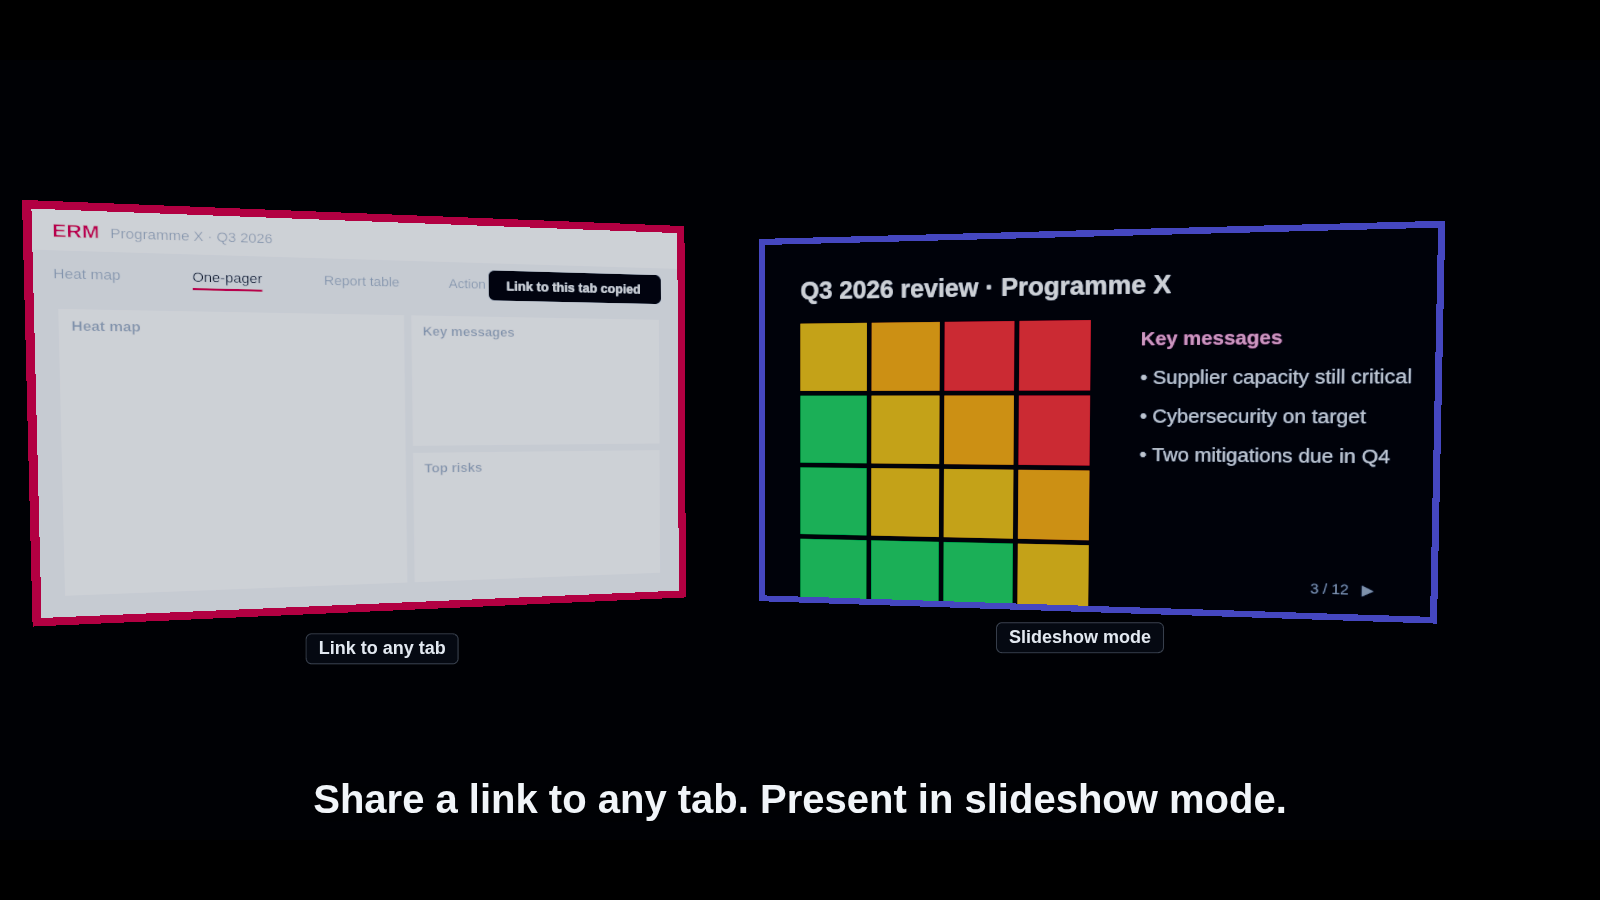
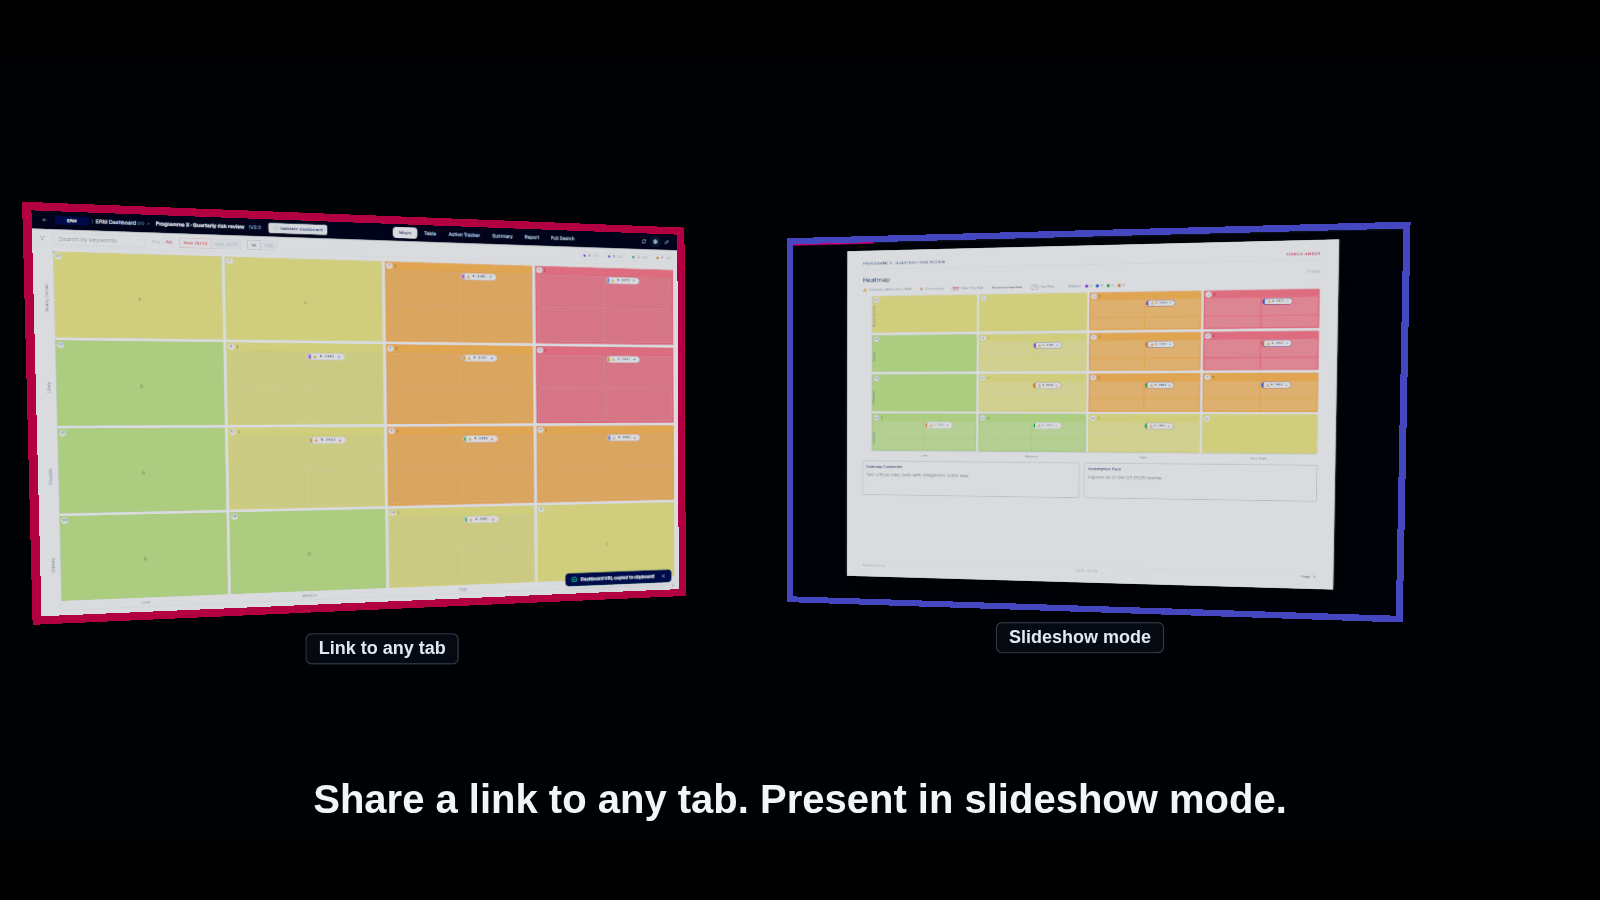
Storyboard: feature shots use the real React screens
?real=1 loads react_<name>.png from the trailer textures (fitted to each
panel, mock-up kept when a file is missing). Re-rendered all 16 frames
and the sheet; the end card now carries the team credit.

Claude-Session: https://claude.ai/code/session_01HdxEbeqqWM97gKbcNqpjAq

Changed region(s): [[0.0, 0.2178, 0.4375, 0.6844], [0.4688, 0.2489, 0.9062, 0.7156]]

diff --git a/erm-migration/prototypes/trailer-storyboard.html b/erm-migration/prototypes/trailer-storyboard.html
@@ -69,9 +69,31 @@ const label = (html, pos) => { const d = document.createElement('div'); d.classN
 const level = s => s >= 12 ? '#ef4444' : s >= 8 ? '#f59e0b' : s >= 4 ? '#eab308' : '#22c55e';
 let bloom = { strength: 0.2, radius: 0.4, threshold: 0.98 };
 
+// ---------- Real app screens (?real=1): React screenshots from the trailer textures, sample data only ----------
+const Q = new URLSearchParams(location.search);
+const TEXDIR = Q.get('texdir') || '../trailer/textures/';
+const REAL = {};
+if (Q.has('real')) {
+  const names = ['search', 'share', 'slide', 'filters', 'onepager_pick', 'report', 'locked', 'toast'];
+  await Promise.all(names.map(n => new Promise(res => {
+    const img = new Image();
+    img.onload = () => { REAL[n] = img; res(); };
+    img.onerror = () => res();  // missing screenshot: keep the mock-up
+    img.src = TEXDIR + 'react_' + n + '.png';
+  })));
+}
+
 // ---------- Mock app screens drawn on canvases ----------
 const PINK = '#d81b60', INK = '#0f172a', MUTED = '#94a3b8', PAGE = '#eef2f7';
-function screen(draw, w = 4, h = 2.5, { dim = 0, glow = PINK } = {}) {
+function screen(draw, w = 4, h = 2.5, { dim = 0, glow = PINK, real = null } = {}) {
+  const img = real && REAL[real];
+  if (img) {
+    const aspect = img.width / img.height;  // fit inside w × h, keeping the screenshot's own aspect
+    if (w / h > aspect) w = h * aspect; else h = w / aspect;
+    const tex = new THREE.Texture(img); tex.needsUpdate = true;
+    tex.colorSpace = THREE.SRGBColorSpace; tex.anisotropy = 8;
+    return framed(tex, w, h, dim, glow, '#e2e8f0');
+  }
   const c = document.createElement('canvas'); c.width = 1024; c.height = Math.round(1024 * h / w);
   const g = c.getContext('2d');
   g.fillStyle = PAGE; g.fillRect(0, 0, c.width, c.height);
@@ -81,8 +103,11 @@ function screen(draw, w = 4, h = 2.5, { dim = 0, glow = PINK } = {}) {
   draw(g, c.width, c.height);
   if (dim) { g.fillStyle = `rgba(15,23,42,${dim})`; g.fillRect(0, 0, c.width, c.height); }
   const tex = new THREE.CanvasTexture(c); tex.colorSpace = THREE.SRGBColorSpace; tex.anisotropy = 8;
+  return framed(tex, w, h, dim, glow);
+}
+function framed(tex, w, h, dim, glow, tint = '#c9d0dc') {
   const group = new THREE.Group();
-  group.add(new THREE.Mesh(new THREE.PlaneGeometry(w, h), new THREE.MeshBasicMaterial({ map: tex, color: '#c9d0dc' })));
+  group.add(new THREE.Mesh(new THREE.PlaneGeometry(w, h), new THREE.MeshBasicMaterial({ map: tex, color: tint })));
   const frame = new THREE.Mesh(new THREE.PlaneGeometry(w + 0.12, h + 0.12), new THREE.MeshBasicMaterial({ color: glow, transparent: true, opacity: dim ? 0.15 : 0.55 }));
   frame.position.z = -0.01; group.add(frame);
   return group;
@@ -272,8 +297,8 @@ const rings = () => {
   const r2 = new THREE.Mesh(new THREE.TorusGeometry(5.4, 0.03, 16, 160), new THREE.MeshBasicMaterial({ color: '#6366f1' }));
   r2.rotation.set(1.45, -0.2, 0.25); r2.scale.set(1.2, 1.2, 1); scene.add(r2);
 };
-const single = (draw, w, h, cap, sub, ry = 0.16) => {
-  const s = screen(draw, w, h); s.rotation.y = ry; s.position.set(0.3, 0.35, 0); scene.add(s);
+const single = (draw, w, h, cap, sub, ry = 0.16, real = null) => {
+  const s = screen(draw, w, h, { real }); s.rotation.y = ry; s.position.set(0.3, real && REAL[real] ? 0.6 : 0.35, 0); scene.add(s);
   camera.position.set(-1.0, 0.6, 8.8); camera.lookAt(0.2, 0.25, 0);
   caption(cap, sub);
 };
@@ -342,20 +367,20 @@ if (S === 7) {
   bloom = { strength: 0.8, radius: 0.5, threshold: 0.2 };
   overlay('eleven', '11<small>new features</small>');
 }
-if (S === 8) single(drawSearch, 7.2, 4.4, 'Find any dashboard in seconds.', 'New · Dashboard switcher');
+if (S === 8) single(drawSearch, 7.2, 4.4, 'Find any dashboard in seconds.', 'New · Dashboard switcher', 0.16, 'search');
 if (S === 9) {
-  const a = screen(drawShare, 4.6, 2.9); a.position.set(-3.2, 0.5, 0.6); a.rotation.y = 0.28; scene.add(a);
-  const b = screen(drawSlide, 6, 3.4, { glow: '#6366f1' }); b.position.set(2.6, 0.4, -1.4); b.rotation.y = -0.2; scene.add(b);
+  const a = screen(drawShare, 4.6, 2.9, { real: 'share' }); a.position.set(-3.2, 0.5, 0.6); a.rotation.y = 0.28; scene.add(a);
+  const b = screen(drawSlide, 6, 3.4, { glow: '#6366f1', real: 'slide' }); b.position.set(2.6, 0.4, -1.4); b.rotation.y = -0.2; scene.add(b);
   label('Link to any tab', new THREE.Vector3(-3.2, -1.3, 0.6));
   label('Slideshow mode', new THREE.Vector3(2.6, -1.6, -1.4));
   camera.position.set(0, 0.6, 10); camera.lookAt(0, 0.2, 0);
   caption('Share a link to any tab. Present in slideshow mode.', 'New');
 }
-if (S === 10) single((g, w, h) => drawTable(g, w, h, { resize: true, chips: true }), 7.2, 4.3, 'Filter the way you think. Columns remember your width.', 'New · Filters and columns');
-if (S === 11) single(drawOnePagerPick, 7.2, 4.3, 'A new one-pager layout. Pick risks in one click.', 'New · One-pager', -0.16);
-if (S === 12) single(drawReport, 7.2, 4.3, 'Reports with classification and an optional cover page.', 'New · Reports');
-if (S === 13) single(drawLocked, 7.2, 4.3, 'Released dashboard? Update permissions without unlocking it.', 'New · Locked versions', -0.16);
-if (S === 14) single(drawToast, 7.2, 4.3, 'Every save confirmed. Every list up to date.', 'Better every day');
+if (S === 10) single((g, w, h) => drawTable(g, w, h, { resize: true, chips: true }), 7.2, 4.3, 'Filter the way you think. Columns remember your width.', 'New · Filters and columns', 0.16, 'filters');
+if (S === 11) single(drawOnePagerPick, 7.2, 4.3, 'A new one-pager layout. Pick risks in one click.', 'New · One-pager', -0.16, 'onepager_pick');
+if (S === 12) single(drawReport, 7.2, 4.3, 'Reports with classification and an optional cover page.', 'New · Reports', 0.16, 'report');
+if (S === 13) single(drawLocked, 7.2, 4.3, 'Released dashboard? Update permissions without unlocking it.', 'New · Locked versions', -0.16, 'locked');
+if (S === 14) single(drawToast, 7.2, 4.3, 'Every save confirmed. Every list up to date.', 'Better every day', 0.16, 'toast');
 if (S === 15) {
   stars(1200, '#64748b', 0.05);
   camera.position.set(0, 0, 14); camera.lookAt(0, 0, 0);
@@ -378,7 +403,7 @@ if (S === 16) {
     const d = document.createElement('div'); d.className = 'team'; d.style.left = x + 'px';
     const img = new Image(); img.alt = name;
     img.onerror = () => { d.innerHTML = '<b>' + name.toUpperCase() + '</b>'; };
-    img.src = '../trailer/textures/' + file + '.png';
+    img.src = TEXDIR + file + '.png';
     d.appendChild(img); wrap.appendChild(d);
   });
 }
